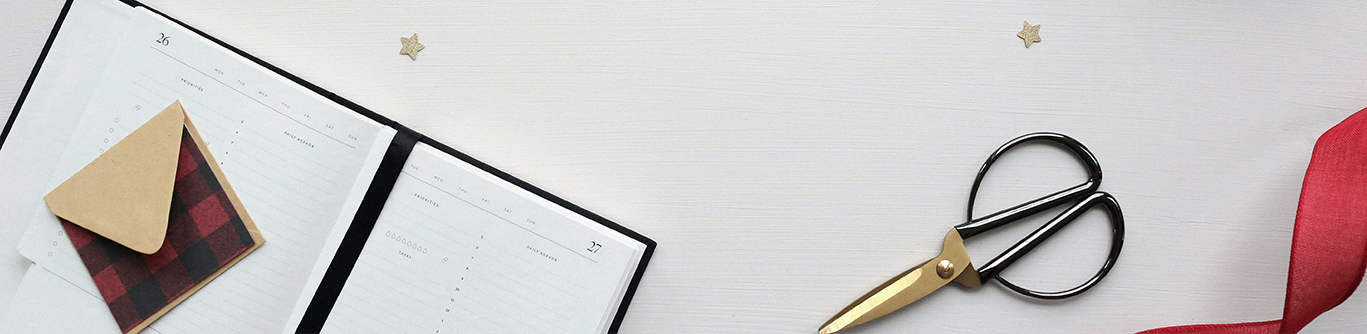
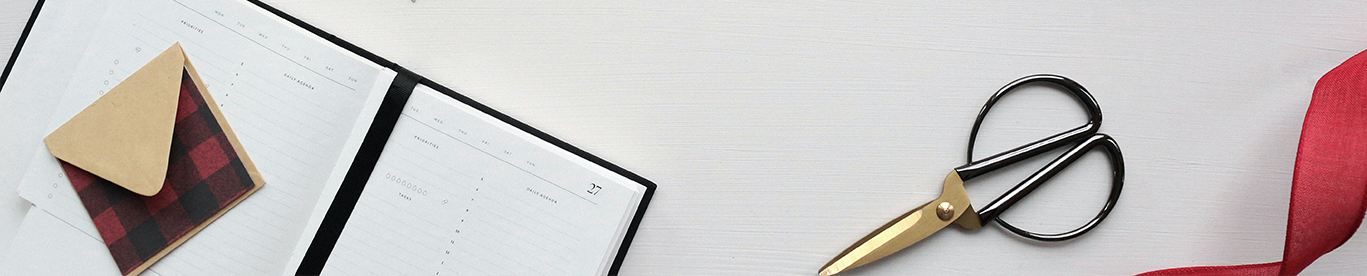
menu

diff --git a/src/components/Header/UtilityMenu.css b/src/components/Header/UtilityMenu.css
@@ -12,6 +12,9 @@
     outline: none;
 }
  
+
+
+
 .nav a { text-decoration: none; }
  
 .nav li { list-style: none; }
@@ -28,6 +31,17 @@
 .nav > li {
   display: block;
   float: left;
+  height: 54px;
+}
+
+
+#gatsby-focus-wrapper  a{
+  font-size: 11px;
+  color: #fff;
+}
+
+#gatsby-focus-wrapper ul li a{
+  color: #fff;
 }
 
 /* Menu Links */
@@ -36,24 +50,34 @@
   display: block;
   z-index: 510;
   height: 54px;
-  padding: 0 20px;
+  padding: 0 10px;
   line-height: 54px;
+
+
    
   font-family: Helvetica, Arial, sans-serif;
   font-weight: bold;
-  font-size: 13px;
+  font-size: 12px;
   color: #fcfcfc;
   text-shadow: 0 0 1px rgba(0,0,0,.35);
 
-  background: #372f2b;
-  border-left: 1px solid #4b4441;
-  border-right: 1px solid #312a27;
+  background: #DE0106;
+  border-left: 1px solid #fcfcfc;
+  border-right: 1px solid #fcfcfc;
 
   -webkit-transition: all .3s ease;
   -moz-transition: all .3s ease;
   -o-transition: all .3s ease;
   -ms-transition: all .3s ease;
   transition: all .3s ease;
+}
+
+
+
+a {
+  color: #000 !important;
+  text-decoration: none;
+  background-color: transparent;
 }
 
 .nav > li:hover > a { background: #4b4441; }
@@ -132,18 +156,18 @@
 
 /* Menu Dropdown */
 .nav > li > div {
-  position: absolute;
   display: block;
-  width: 100%;
-  top: 50px;
+  width: auto;
   left: 0;
+  padding: 10px;
 
   opacity: 0;
   visibility: hidden;
   overflow: hidden;
 
-  background: #ffffff;
+  background: #DE0106;
   border-radius: 0 0 3px 3px;
+  color: #fff;
 
   -webkit-transition: all .3s ease .15s;
   -moz-transition: all .3s ease .15s;
@@ -158,3 +182,4 @@
   visibility: visible;
   overflow: visible;
 }
+

diff --git a/src/componentstyles/parallaxStyle.js b/src/componentstyles/parallaxStyle.js
@@ -11,16 +11,15 @@ import {
 
 const parallaxStyle = {
   parallax: {
-    height: "100vh",
-    maxHeight: "1600px",
+    height: "50vh",
+    minHeight: "40vh",
+    maxHeight: "10px",
     overflow: "hidden",
     position: "relative",
     backgroundPosition: "50%",
     backgroundSize: "cover",
     margin: "0",
     padding: "0",
-    border: "0",
-    display: "flex",
     alignItems: "center"
   },
   filter: {},
@@ -178,9 +177,9 @@ const parallaxStyle = {
     }
   },
   small: {
-    height: "65vh",
-    minHeight: "65vh",
-    maxHeight: "650px"
+    height: "40vh",
+    minHeight: "40vh",
+    maxHeight: "100px"
   }
 };
 
